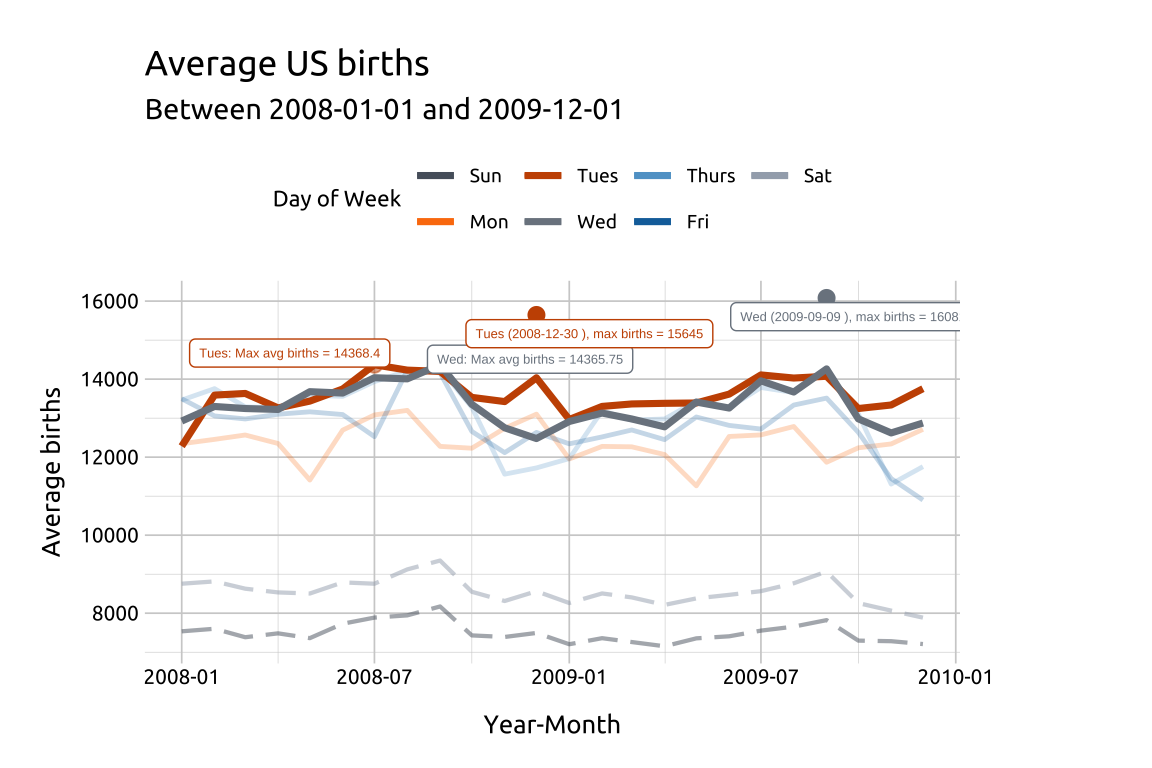
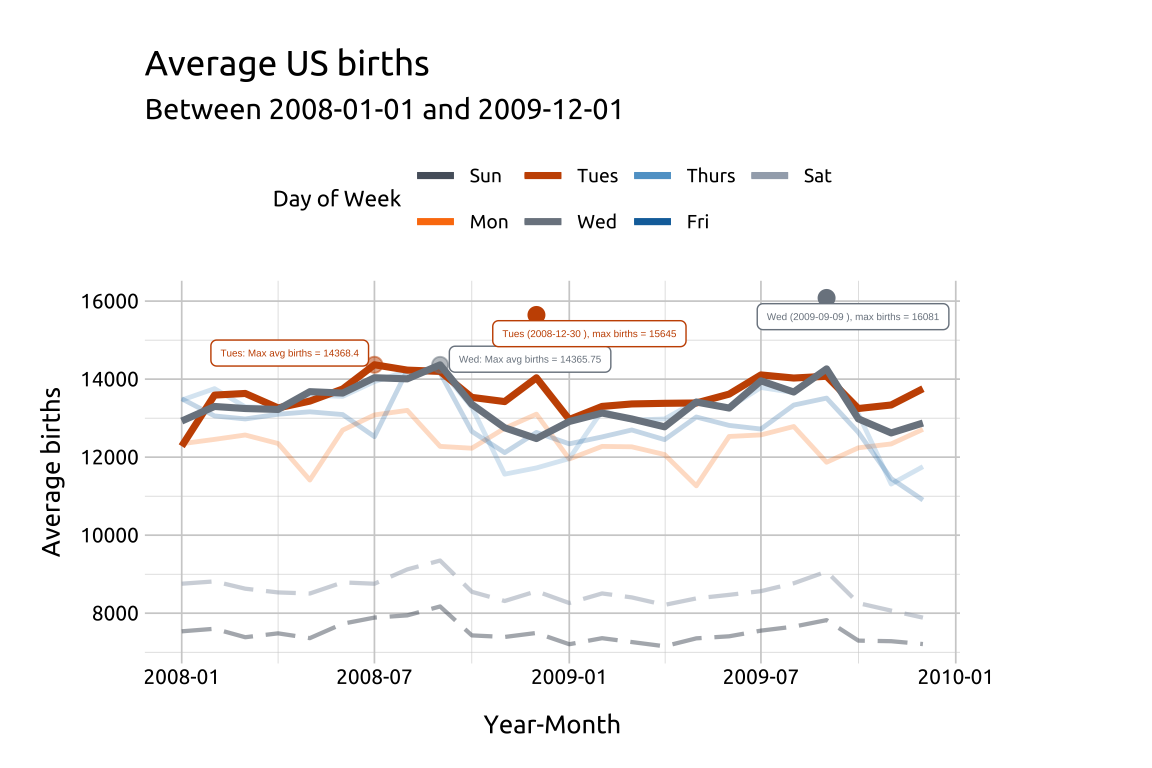
new grp lines

Changed region(s): [[0.375, 0.375, 0.8438, 0.5], [0.1562, 0.4375, 0.3438, 0.5]]

diff --git a/docs/grp_line_graphs.html b/docs/grp_line_graphs.html
@@ -119,7 +119,8 @@ code span.wa { color: #60a0b0; font-weight: bold; font-style: italic; } /* Warni
     "search-detached-cancel-button-title": "Cancel",
     "search-submit-button-title": "Submit"
   }
-}</script>
+}</script><link href="site_libs/pagedtable-1.1/css/pagedtable.css" rel="stylesheet">
+<script src="site_libs/pagedtable-1.1/js/pagedtable.js"></script>
 </head>
 <body class="nav-sidebar floating slimcontent">
 
@@ -365,6 +366,11 @@ code span.wa { color: #60a0b0; font-weight: bold; font-style: italic; } /* Warni
   <a href="./stream_plots.html" class="sidebar-item-text sidebar-link">Stream plots</a>
   </div>
 </li>
+          <li class="sidebar-item">
+  <div class="sidebar-item-container"> 
+  <a href="./alluvial_charts.html" class="sidebar-item-text sidebar-link">Alluvial charts</a>
+  </div>
+</li>
       </ul>
 </li>
         <li class="sidebar-item sidebar-item-section">
@@ -393,11 +399,6 @@ code span.wa { color: #60a0b0; font-weight: bold; font-style: italic; } /* Warni
           <li class="sidebar-item">
   <div class="sidebar-item-container"> 
   <a href="./grouped_bubble_charts.html" class="sidebar-item-text sidebar-link">Grouped bubble graph</a>
-  </div>
-</li>
-          <li class="sidebar-item">
-  <div class="sidebar-item-container"> 
-  <a href="./alluvial_charts.html" class="sidebar-item-text sidebar-link">Alluvial charts</a>
   </div>
 </li>
           <li class="sidebar-item">
@@ -957,13 +958,20 @@ Graph info
 <span>    <span class="fu">dplyr</span><span class="fu">::</span><span class="fu"><a href="https://dplyr.tidyverse.org/reference/select.html">select</a></span><span class="op">(</span><span class="va">day_of_week</span>, <span class="va">yr_mnth</span>, <span class="va">max_births</span>, <span class="va">lbl</span><span class="op">)</span></span>
 <span></span>
 <span><span class="fu">dplyr</span><span class="fu">::</span><span class="fu"><a href="https://dplyr.tidyverse.org/reference/arrange.html">arrange</a></span><span class="op">(</span><span class="va">label_max_dow</span>, <span class="fu">desc</span><span class="op">(</span><span class="va">max_births</span><span class="op">)</span><span class="op">)</span> <span class="op">|&gt;</span></span>
-<span>    <span class="fu">dplyr</span><span class="fu">::</span><span class="fu"><a href="https://dplyr.tidyverse.org/reference/slice.html">slice</a></span><span class="op">(</span><span class="fl">1</span><span class="op">:</span><span class="fl">2</span><span class="op">)</span></span>
-<span><span class="co">#&gt; # A tibble: 2 × 4</span></span>
-<span><span class="co">#&gt;   day_of_week yr_mnth    max_births lbl                     </span></span>
-<span><span class="co">#&gt;   &lt;ord&gt;       &lt;date&gt;          &lt;int&gt; &lt;chr&gt;                   </span></span>
-<span><span class="co">#&gt; 1 Wed         2009-09-01      16081 Wed (2009-09-09 ), max …</span></span>
-<span><span class="co">#&gt; 2 Tues        2008-12-01      15645 Tues (2008-12-30 ), max…</span></span></code><button title="Copy to Clipboard" class="code-copy-button"><i class="bi"></i></button></pre></div>
+<span>    <span class="fu">dplyr</span><span class="fu">::</span><span class="fu"><a href="https://dplyr.tidyverse.org/reference/slice.html">slice</a></span><span class="op">(</span><span class="fl">1</span><span class="op">:</span><span class="fl">2</span><span class="op">)</span></span></code><button title="Copy to Clipboard" class="code-copy-button"><i class="bi"></i></button></pre></div>
 </details>
+</div>
+</div>
+<div style="font-size: 0.75em;">
+<div class="cell">
+<div class="cell-output-display">
+
+<div data-pagedtable="false">
+  <script data-pagedtable-source="" type="application/json">
+{"columns":[{"label":["day_of_week"],"name":[1],"type":["ord"],"align":["right"]},{"label":["yr_mnth"],"name":[2],"type":["date"],"align":["right"]},{"label":["max_births"],"name":[3],"type":["int"],"align":["right"]},{"label":["lbl"],"name":[4],"type":["chr"],"align":["left"]}],"data":[{"1":"Wed","2":"2009-09-01","3":"16081","4":"Wed (2009-09-09 ), max births = 16081"},{"1":"Tues","2":"2008-12-01","3":"15645","4":"Tues (2008-12-30 ), max births = 15645"}],"options":{"columns":{"min":{},"max":[10]},"rows":{"min":[10],"max":[10]},"pages":{}}}
+  </script>
+</div>
+</div>
 </div>
 </div>
 <div style="font-size: 0.75em;">
@@ -991,13 +999,20 @@ Graph info
 <span>    <span class="co"># reduce</span></span>
 <span>    <span class="fu">select</span><span class="op">(</span><span class="va">day_of_week</span>, <span class="va">yr_mnth</span>, <span class="va">max_avg_births</span>, <span class="va">lbl</span><span class="op">)</span></span>
 <span><span class="fu">dplyr</span><span class="fu">::</span><span class="fu"><a href="https://dplyr.tidyverse.org/reference/arrange.html">arrange</a></span><span class="op">(</span><span class="va">label_max_avg_dow</span>, <span class="fu">desc</span><span class="op">(</span><span class="va">max_avg_births</span><span class="op">)</span><span class="op">)</span> <span class="op">|&gt;</span></span>
-<span>    <span class="fu">dplyr</span><span class="fu">::</span><span class="fu"><a href="https://dplyr.tidyverse.org/reference/slice.html">slice</a></span><span class="op">(</span><span class="fl">1</span><span class="op">:</span><span class="fl">2</span><span class="op">)</span></span>
-<span><span class="co">#&gt; # A tibble: 2 × 4</span></span>
-<span><span class="co">#&gt;   day_of_week yr_mnth    max_avg_births lbl                 </span></span>
-<span><span class="co">#&gt;   &lt;ord&gt;       &lt;date&gt;              &lt;dbl&gt; &lt;chr&gt;               </span></span>
-<span><span class="co">#&gt; 1 Tues        2008-07-01         14368. Tues: Max avg birth…</span></span>
-<span><span class="co">#&gt; 2 Wed         2008-09-01         14366. Wed: Max avg births…</span></span></code><button title="Copy to Clipboard" class="code-copy-button"><i class="bi"></i></button></pre></div>
+<span>    <span class="fu">dplyr</span><span class="fu">::</span><span class="fu"><a href="https://dplyr.tidyverse.org/reference/slice.html">slice</a></span><span class="op">(</span><span class="fl">1</span><span class="op">:</span><span class="fl">2</span><span class="op">)</span></span></code><button title="Copy to Clipboard" class="code-copy-button"><i class="bi"></i></button></pre></div>
 </details>
+</div>
+</div>
+<div style="font-size: 0.75em;">
+<div class="cell">
+<div class="cell-output-display">
+
+<div data-pagedtable="false">
+  <script data-pagedtable-source="" type="application/json">
+{"columns":[{"label":["day_of_week"],"name":[1],"type":["ord"],"align":["right"]},{"label":["yr_mnth"],"name":[2],"type":["date"],"align":["right"]},{"label":["max_avg_births"],"name":[3],"type":["dbl"],"align":["right"]},{"label":["lbl"],"name":[4],"type":["chr"],"align":["left"]}],"data":[{"1":"Tues","2":"2008-07-01","3":"14368.40","4":"Tues: Max avg births = 14368.4"},{"1":"Wed","2":"2008-09-01","3":"14365.75","4":"Wed: Max avg births = 14365.75"}],"options":{"columns":{"min":{},"max":[10]},"rows":{"min":[10],"max":[10]},"pages":{}}}
+  </script>
+</div>
+</div>
 </div>
 </div>
 <div style="font-size: 0.85em;">
@@ -1010,18 +1025,30 @@ Graph info
 <span><span class="va">label_max_wed_dow</span> <span class="op">&lt;-</span> <span class="va">label_max_dow</span> <span class="op">|&gt;</span></span>
 <span>    <span class="fu"><a href="https://rdrr.io/r/stats/filter.html">filter</a></span><span class="op">(</span><span class="va">day_of_week</span> <span class="op">==</span> <span class="st">"Wed"</span><span class="op">)</span></span>
 <span><span class="va">label_max_wed_dow</span></span>
-<span><span class="co">#&gt; # A tibble: 1 × 4</span></span>
-<span><span class="co">#&gt;   day_of_week yr_mnth    max_births lbl                     </span></span>
-<span><span class="co">#&gt;   &lt;ord&gt;       &lt;date&gt;          &lt;int&gt; &lt;chr&gt;                   </span></span>
-<span><span class="co">#&gt; 1 Wed         2009-09-01      16081 Wed (2009-09-09 ), max …</span></span>
 <span><span class="va">label_max_avg_wed_dow</span> <span class="op">&lt;-</span> <span class="va">label_max_avg_dow</span> <span class="op">|&gt;</span></span>
 <span>    <span class="fu"><a href="https://rdrr.io/r/stats/filter.html">filter</a></span><span class="op">(</span><span class="va">day_of_week</span> <span class="op">==</span> <span class="st">"Wed"</span><span class="op">)</span></span>
-<span><span class="va">label_max_avg_wed_dow</span></span>
-<span><span class="co">#&gt; # A tibble: 1 × 4</span></span>
-<span><span class="co">#&gt;   day_of_week yr_mnth    max_avg_births lbl                 </span></span>
-<span><span class="co">#&gt;   &lt;ord&gt;       &lt;date&gt;              &lt;dbl&gt; &lt;chr&gt;               </span></span>
-<span><span class="co">#&gt; 1 Wed         2008-09-01         14366. Wed: Max avg births…</span></span></code><button title="Copy to Clipboard" class="code-copy-button"><i class="bi"></i></button></pre></div>
+<span><span class="va">label_max_avg_wed_dow</span></span></code><button title="Copy to Clipboard" class="code-copy-button"><i class="bi"></i></button></pre></div>
 </details>
+</div>
+</div>
+<div style="font-size: 0.75em;">
+<div class="cell">
+<div class="cell-output-display">
+
+<div data-pagedtable="false">
+  <script data-pagedtable-source="" type="application/json">
+{"columns":[{"label":["day_of_week"],"name":[1],"type":["ord"],"align":["right"]},{"label":["yr_mnth"],"name":[2],"type":["date"],"align":["right"]},{"label":["max_births"],"name":[3],"type":["int"],"align":["right"]},{"label":["lbl"],"name":[4],"type":["chr"],"align":["left"]}],"data":[{"1":"Wed","2":"2009-09-01","3":"16081","4":"Wed (2009-09-09 ), max births = 16081"}],"options":{"columns":{"min":{},"max":[10]},"rows":{"min":[10],"max":[10]},"pages":{}}}
+  </script>
+</div>
+</div>
+<div class="cell-output-display">
+
+<div data-pagedtable="false">
+  <script data-pagedtable-source="" type="application/json">
+{"columns":[{"label":["day_of_week"],"name":[1],"type":["ord"],"align":["right"]},{"label":["yr_mnth"],"name":[2],"type":["date"],"align":["right"]},{"label":["max_avg_births"],"name":[3],"type":["dbl"],"align":["right"]},{"label":["lbl"],"name":[4],"type":["chr"],"align":["left"]}],"data":[{"1":"Wed","2":"2008-09-01","3":"14365.75","4":"Wed: Max avg births = 14365.75"}],"options":{"columns":{"min":{},"max":[10]},"rows":{"min":[10],"max":[10]},"pages":{}}}
+  </script>
+</div>
+</div>
 </div>
 </div>
 <div style="font-size: 0.85em;">
@@ -1057,7 +1084,7 @@ Graph info
 <span>    fill <span class="op">=</span> <span class="st">"#ffffff"</span>,</span>
 <span>    nudge_y <span class="op">=</span> <span class="op">-</span><span class="fl">480</span>,</span>
 <span>    nudge_x <span class="op">=</span> <span class="fl">25</span>,</span>
-<span>    size <span class="op">=</span> <span class="fl">1.7</span>,</span>
+<span>    size <span class="op">=</span> <span class="fl">1.3</span>,</span>
 <span>    show.legend <span class="op">=</span> <span class="cn">FALSE</span><span class="op">)</span></span>
 <span></span>
 <span><span class="va">ggp2_line_wed_max_avg_births_lbl</span> <span class="op">&lt;-</span></span>
@@ -1069,7 +1096,7 @@ Graph info
 <span>        fill <span class="op">=</span> <span class="st">"#ffffff"</span>,</span>
 <span>        nudge_y <span class="op">=</span> <span class="fl">145</span>,</span>
 <span>        nudge_x <span class="op">=</span> <span class="fl">85</span>,</span>
-<span>        size <span class="op">=</span> <span class="fl">1.7</span>,</span>
+<span>        size <span class="op">=</span> <span class="fl">1.3</span>,</span>
 <span>        show.legend <span class="op">=</span> <span class="cn">FALSE</span><span class="op">)</span></span>
 <span></span>
 <span><span class="va">ggp2_line_pal_d</span> <span class="op">+</span> </span>
@@ -1100,18 +1127,30 @@ Graph info
 <span><span class="va">label_max_tues_dow</span> <span class="op">&lt;-</span> <span class="va">label_max_dow</span> <span class="op">|&gt;</span> </span>
 <span>    <span class="fu"><a href="https://rdrr.io/r/stats/filter.html">filter</a></span><span class="op">(</span><span class="va">day_of_week</span> <span class="op">==</span> <span class="st">"Tues"</span><span class="op">)</span></span>
 <span><span class="va">label_max_tues_dow</span></span>
-<span><span class="co">#&gt; # A tibble: 1 × 4</span></span>
-<span><span class="co">#&gt;   day_of_week yr_mnth    max_births lbl                     </span></span>
-<span><span class="co">#&gt;   &lt;ord&gt;       &lt;date&gt;          &lt;int&gt; &lt;chr&gt;                   </span></span>
-<span><span class="co">#&gt; 1 Tues        2008-12-01      15645 Tues (2008-12-30 ), max…</span></span>
 <span><span class="va">label_max_avg_tues_dow</span> <span class="op">&lt;-</span> <span class="va">label_max_avg_dow</span> <span class="op">|&gt;</span> </span>
 <span>    <span class="fu"><a href="https://rdrr.io/r/stats/filter.html">filter</a></span><span class="op">(</span><span class="va">day_of_week</span> <span class="op">==</span> <span class="st">"Tues"</span><span class="op">)</span></span>
-<span><span class="va">label_max_avg_tues_dow</span></span>
-<span><span class="co">#&gt; # A tibble: 1 × 4</span></span>
-<span><span class="co">#&gt;   day_of_week yr_mnth    max_avg_births lbl                 </span></span>
-<span><span class="co">#&gt;   &lt;ord&gt;       &lt;date&gt;              &lt;dbl&gt; &lt;chr&gt;               </span></span>
-<span><span class="co">#&gt; 1 Tues        2008-07-01         14368. Tues: Max avg birth…</span></span></code><button title="Copy to Clipboard" class="code-copy-button"><i class="bi"></i></button></pre></div>
+<span><span class="va">label_max_avg_tues_dow</span></span></code><button title="Copy to Clipboard" class="code-copy-button"><i class="bi"></i></button></pre></div>
 </details>
+</div>
+</div>
+<div style="font-size: 0.75em;">
+<div class="cell">
+<div class="cell-output-display">
+
+<div data-pagedtable="false">
+  <script data-pagedtable-source="" type="application/json">
+{"columns":[{"label":["day_of_week"],"name":[1],"type":["ord"],"align":["right"]},{"label":["yr_mnth"],"name":[2],"type":["date"],"align":["right"]},{"label":["max_births"],"name":[3],"type":["int"],"align":["right"]},{"label":["lbl"],"name":[4],"type":["chr"],"align":["left"]}],"data":[{"1":"Tues","2":"2008-12-01","3":"15645","4":"Tues (2008-12-30 ), max births = 15645"}],"options":{"columns":{"min":{},"max":[10]},"rows":{"min":[10],"max":[10]},"pages":{}}}
+  </script>
+</div>
+</div>
+<div class="cell-output-display">
+
+<div data-pagedtable="false">
+  <script data-pagedtable-source="" type="application/json">
+{"columns":[{"label":["day_of_week"],"name":[1],"type":["ord"],"align":["right"]},{"label":["yr_mnth"],"name":[2],"type":["date"],"align":["right"]},{"label":["max_avg_births"],"name":[3],"type":["dbl"],"align":["right"]},{"label":["lbl"],"name":[4],"type":["chr"],"align":["left"]}],"data":[{"1":"Tues","2":"2008-07-01","3":"14368.4","4":"Tues: Max avg births = 14368.4"}],"options":{"columns":{"min":{},"max":[10]},"rows":{"min":[10],"max":[10]},"pages":{}}}
+  </script>
+</div>
+</div>
 </div>
 </div>
 <div style="font-size: 0.85em;">
@@ -1147,7 +1186,7 @@ Graph info
 <span>        fill <span class="op">=</span> <span class="st">"#ffffff"</span>,</span>
 <span>        nudge_y <span class="op">=</span> <span class="op">-</span><span class="fl">480</span>,</span>
 <span>        nudge_x <span class="op">=</span> <span class="fl">50</span>,</span>
-<span>        size <span class="op">=</span> <span class="fl">1.7</span>,</span>
+<span>        size <span class="op">=</span> <span class="fl">1.3</span>,</span>
 <span>        show.legend <span class="op">=</span> <span class="cn">FALSE</span><span class="op">)</span></span>
 <span></span>
 <span><span class="va">ggp2_line_tues_max_avg_births_lbl</span> <span class="op">&lt;-</span></span>
@@ -1159,7 +1198,7 @@ Graph info
 <span>        fill <span class="op">=</span> <span class="st">"#ffffff"</span>,</span>
 <span>        nudge_y <span class="op">=</span> <span class="fl">300</span>,</span>
 <span>        nudge_x <span class="op">=</span> <span class="op">-</span><span class="fl">80</span>,</span>
-<span>        size <span class="op">=</span> <span class="fl">1.7</span>,</span>
+<span>        size <span class="op">=</span> <span class="fl">1.3</span>,</span>
 <span>        show.legend <span class="op">=</span> <span class="cn">FALSE</span><span class="op">)</span></span>
 <span></span>
 <span></span>
